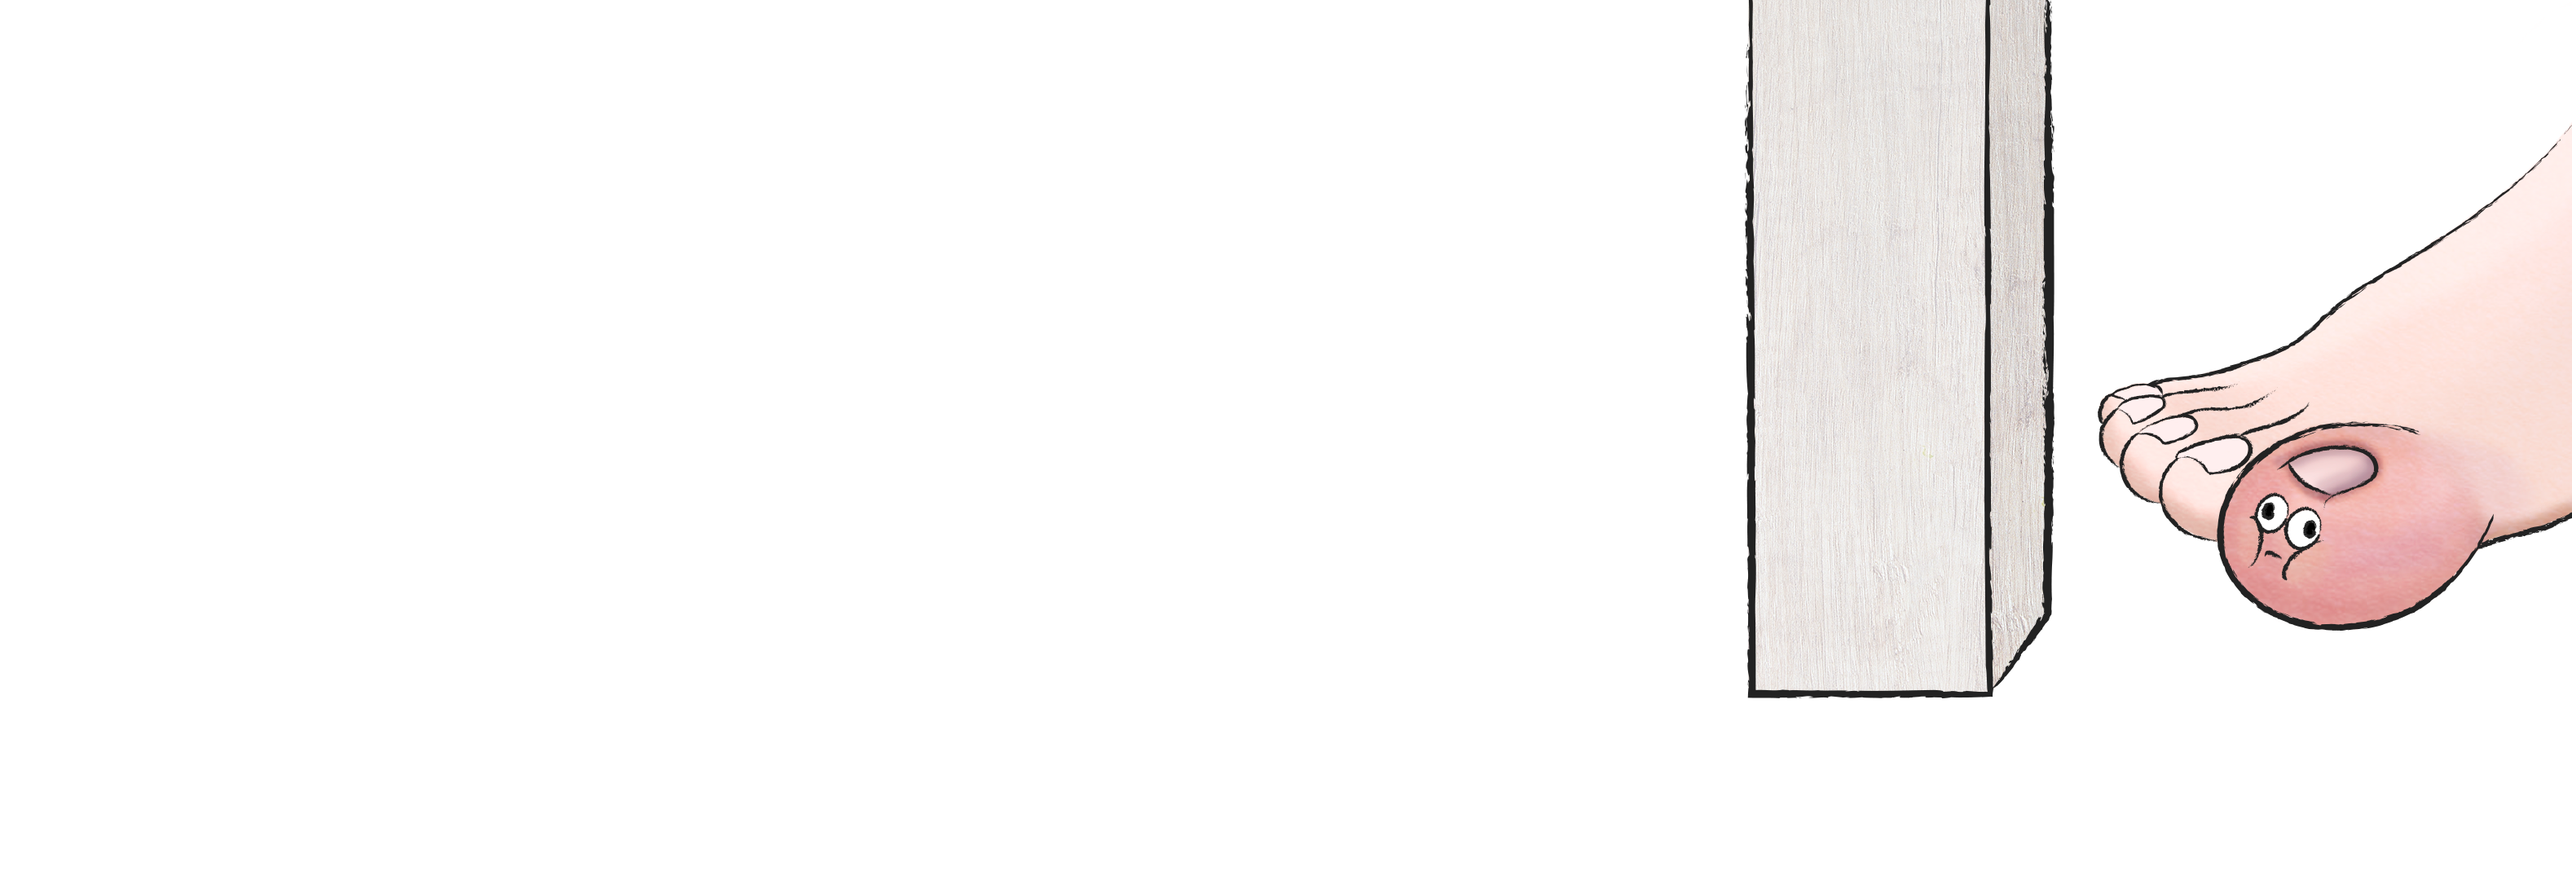
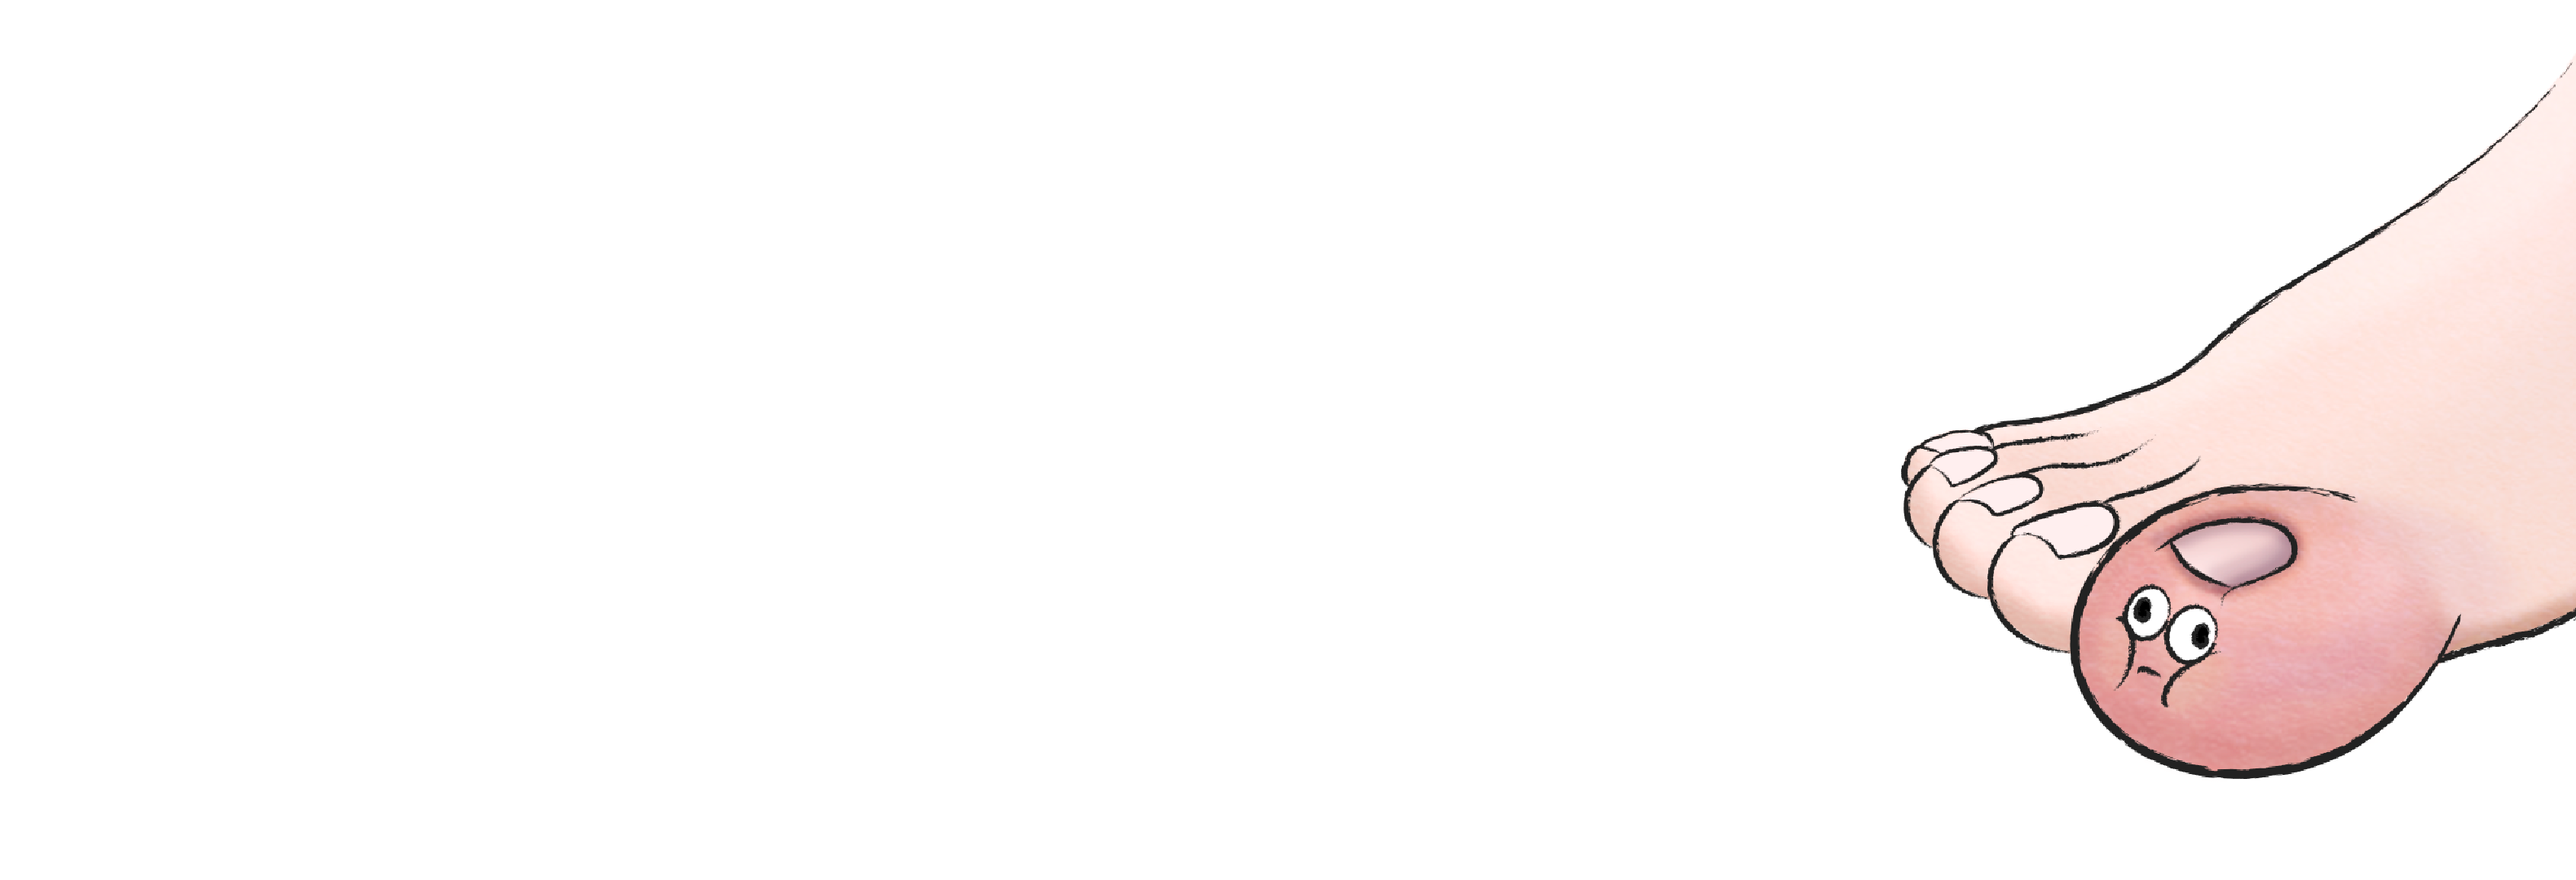
aanpassen afbeeldingen zonder tafelpoot

Changed region(s): [[0.6521, 0.0, 1.0, 0.8861], [0.9316, 0.1833, 0.9626, 0.2444]]

diff --git a/index.html b/index.html
@@ -19,6 +19,9 @@
 
     <!--iconen font awesome-->
     <link rel="stylesheet" href="https://use.fontawesome.com/releases/v5.6.1/css/all.css" integrity="sha384-gfdkjb5BdAXd+lj+gudLWI+BXq4IuLW5IT+brZEZsLFm++aCMlF1V92rMkPaX4PP" crossorigin="anonymous">
+
+    <!--animate.css-->
+    <link rel="stylesheet" href="https://cdnjs.cloudflare.com/ajax/libs/animate.css/3.7.0/animate.min.css">
 </head>
 
 
@@ -53,7 +56,7 @@
     <!--BODY-->
     <div class="jumbotron_fluid afbeelding_container_rechts">
         <div>
-            <img class="afbeelding" src="./images/histerisch_rechts.png" alt="histerische teen">
+            <img class="afbeelding animated fadeInRight" src="./images/histerisch_rechts.png" alt="histerische teen">
         </div>  
     </div>
 

diff --git a/styles/pagina_styles.scss b/styles/pagina_styles.scss
@@ -20,8 +20,9 @@ $donkerroze: #DB989B;
     }
 
     a:hover {
-        color: $donkerroze;
+        color: black;
         text-decoration: none;
+        font-size: 17px;
     }
 
 

diff --git a/styles/pagina_styles.css b/styles/pagina_styles.css
@@ -19,8 +19,9 @@
 }
 
 .extra_nav a:hover {
-  color: #DB989B;
+  color: black;
   text-decoration: none;
+  font-size: 17px;
 }
 
 .extra_nav .nav_img {

diff --git a/styles/style.scss b/styles/style.scss
@@ -204,6 +204,7 @@ body {
 
         @media screen and (min-width: 800px) {
             max-height: 700px;
+
         }
     } 
 }
